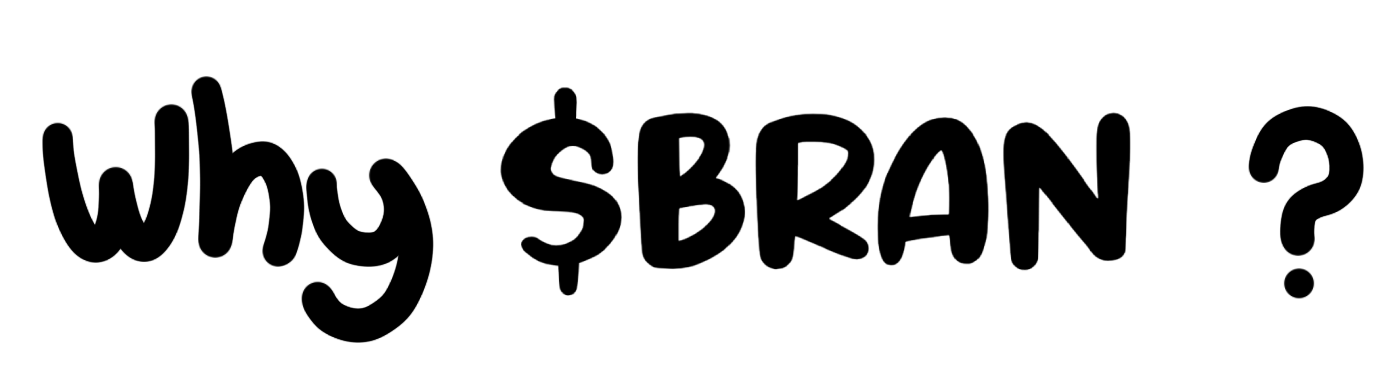
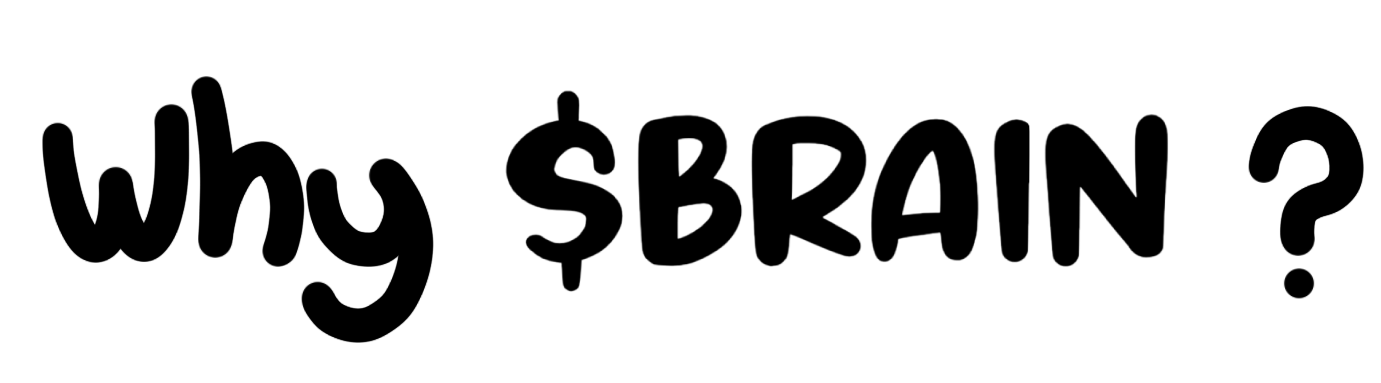
1

diff --git a/index.html b/index.html
@@ -9,8 +9,8 @@
 <meta http-equiv="Expires" content="0" />
     <link rel="icon" href="./assets/logo1.png" type="image/png">
     <link rel="apple-touch-icon" href="./assets/logo1.png">
-    <title>BRAN</title>
-    <meta name="description" content="BRAN is a cheeky, sarcastic genius representing your inner thoughts on the Solana network." />
+    <title>BRAIN</title>
+    <meta name="description" content="BRAIN is a cheeky, sarcastic genius representing your inner thoughts on the Solana network." />
   
     <link rel="preconnect" href="https://fonts.googleapis.com">
     <link rel="preconnect" href="https://fonts.gstatic.com" crossorigin>
@@ -25,48 +25,48 @@
       <div class="ticker-wrapper">
         <div class="ticker">
             <div class="ticker-move">
-                <span class="text">WQa2...<span style="color:#ff7bd3; font-weight: bold; text-transform: uppercase;">Zump</span></span>
-                <span class="text">WQa2...<span style="color:#ff7bd3; font-weight: bold; text-transform: uppercase;">Zump</span></span>
-                <span class="text">WQa2...<span style="color:#ff7bd3; font-weight: bold; text-transform: uppercase;">Zump</span></span>
-                <span class="text">WQa2...<span style="color:#ff7bd3; font-weight: bold; text-transform: uppercase;">Zump</span></span>
-                <span class="text">WQa2...<span style="color:#ff7bd3; font-weight: bold; text-transform: uppercase;">Zump</span></span>
-                <span class="text">WQa2...<span style="color:#ff7bd3; font-weight: bold; text-transform: uppercase;">Zump</span></span>
-                <span class="text">WQa2...<span style="color:#ff7bd3; font-weight: bold; text-transform: uppercase;">Zump</span></span>
-                <span class="text">WQa2...<span style="color:#ff7bd3; font-weight: bold; text-transform: uppercase;">Zump</span></span>
-                <span class="text">WQa2...<span style="color:#ff7bd3; font-weight: bold; text-transform: uppercase;">Zump</span></span>
-                <span class="text">WQa2...<span style="color:#ff7bd3; font-weight: bold; text-transform: uppercase;">Zump</span></span>
-                <span class="text">WQa2...<span style="color:#ff7bd3; font-weight: bold; text-transform: uppercase;">Zump</span></span>
-                <span class="text">WQa2...<span style="color:#ff7bd3; font-weight: bold; text-transform: uppercase;">Zump</span></span>
-                <span class="text">WQa2...<span style="color:#ff7bd3; font-weight: bold; text-transform: uppercase;">Zump</span></span>
-                <span class="text">WQa2...<span style="color:#ff7bd3; font-weight: bold; text-transform: uppercase;">Zump</span></span>
-                <span class="text">WQa2...<span style="color:#ff7bd3; font-weight: bold; text-transform: uppercase;">Zump</span></span>
-                <span class="text">WQa2...<span style="color:#ff7bd3; font-weight: bold; text-transform: uppercase;">Zump</span></span>
-                <span class="text">WQa2...<span style="color:#ff7bd3; font-weight: bold; text-transform: uppercase;">Zump</span></span>
-                <span class="text">WQa2...<span style="color:#ff7bd3; font-weight: bold; text-transform: uppercase;">Zump</span></span>
-                <span class="text">WQa2...<span style="color:#ff7bd3; font-weight: bold; text-transform: uppercase;">Zump</span></span>
-                <span class="text">WQa2...<span style="color:#ff7bd3; font-weight: bold; text-transform: uppercase;">Zump</span></span>
+                <span class="text">HZ16...<span style="color:#ff7bd3; font-weight: bold; text-transform: uppercase;">vump</span></span>
+                <span class="text">HZ16...<span style="color:#ff7bd3; font-weight: bold; text-transform: uppercase;">vump</span></span>
+                <span class="text">HZ16...<span style="color:#ff7bd3; font-weight: bold; text-transform: uppercase;">vump</span></span>
+                <span class="text">HZ16...<span style="color:#ff7bd3; font-weight: bold; text-transform: uppercase;">vump</span></span>
+                <span class="text">HZ16...<span style="color:#ff7bd3; font-weight: bold; text-transform: uppercase;">vump</span></span>
+                <span class="text">HZ16...<span style="color:#ff7bd3; font-weight: bold; text-transform: uppercase;">vump</span></span>
+                <span class="text">HZ16...<span style="color:#ff7bd3; font-weight: bold; text-transform: uppercase;">vump</span></span>
+                <span class="text">HZ16...<span style="color:#ff7bd3; font-weight: bold; text-transform: uppercase;">vump</span></span>
+                <span class="text">HZ16...<span style="color:#ff7bd3; font-weight: bold; text-transform: uppercase;">vump</span></span>
+                <span class="text">HZ16...<span style="color:#ff7bd3; font-weight: bold; text-transform: uppercase;">vump</span></span>
+                <span class="text">HZ16...<span style="color:#ff7bd3; font-weight: bold; text-transform: uppercase;">vump</span></span>
+                <span class="text">HZ16...<span style="color:#ff7bd3; font-weight: bold; text-transform: uppercase;">vump</span></span>
+                <span class="text">HZ16...<span style="color:#ff7bd3; font-weight: bold; text-transform: uppercase;">vump</span></span>
+                <span class="text">HZ16...<span style="color:#ff7bd3; font-weight: bold; text-transform: uppercase;">vump</span></span>
+                <span class="text">HZ16...<span style="color:#ff7bd3; font-weight: bold; text-transform: uppercase;">vump</span></span>
+                <span class="text">HZ16...<span style="color:#ff7bd3; font-weight: bold; text-transform: uppercase;">vump</span></span>
+                <span class="text">HZ16...<span style="color:#ff7bd3; font-weight: bold; text-transform: uppercase;">vump</span></span>
+                <span class="text">HZ16...<span style="color:#ff7bd3; font-weight: bold; text-transform: uppercase;">vump</span></span>
+                <span class="text">HZ16...<span style="color:#ff7bd3; font-weight: bold; text-transform: uppercase;">vump</span></span>
+                <span class="text">HZ16...<span style="color:#ff7bd3; font-weight: bold; text-transform: uppercase;">vump</span></span>
             </div>
             <DIV class="ticker-move">
-                <span class="text">WQa2...<span style="color:#ff7bd3; font-weight: bold; text-transform: uppercase;">Zump</span></span>
-                <span class="text">WQa2...<span style="color:#ff7bd3; font-weight: bold; text-transform: uppercase;">Zump</span></span>
-                <span class="text">WQa2...<span style="color:#ff7bd3; font-weight: bold; text-transform: uppercase;">Zump</span></span>
-                <span class="text">WQa2...<span style="color:#ff7bd3; font-weight: bold; text-transform: uppercase;">Zump</span></span>
-                <span class="text">WQa2...<span style="color:#ff7bd3; font-weight: bold; text-transform: uppercase;">Zump</span></span>
-                <span class="text">WQa2...<span style="color:#ff7bd3; font-weight: bold; text-transform: uppercase;">Zump</span></span>
-                <span class="text">WQa2...<span style="color:#ff7bd3; font-weight: bold; text-transform: uppercase;">Zump</span></span>
-                <span class="text">WQa2...<span style="color:#ff7bd3; font-weight: bold; text-transform: uppercase;">Zump</span></span>
-                <span class="text">WQa2...<span style="color:#ff7bd3; font-weight: bold; text-transform: uppercase;">Zump</span></span>
-                <span class="text">WQa2...<span style="color:#ff7bd3; font-weight: bold; text-transform: uppercase;">Zump</span></span>
-                <span class="text">WQa2...<span style="color:#ff7bd3; font-weight: bold; text-transform: uppercase;">Zump</span></span>
-                <span class="text">WQa2...<span style="color:#ff7bd3; font-weight: bold; text-transform: uppercase;">Zump</span></span>
-                <span class="text">WQa2...<span style="color:#ff7bd3; font-weight: bold; text-transform: uppercase;">Zump</span></span>
-                <span class="text">WQa2...<span style="color:#ff7bd3; font-weight: bold; text-transform: uppercase;">Zump</span></span>
-                <span class="text">WQa2...<span style="color:#ff7bd3; font-weight: bold; text-transform: uppercase;">Zump</span></span>
-                <span class="text">WQa2...<span style="color:#ff7bd3; font-weight: bold; text-transform: uppercase;">Zump</span></span>
-                <span class="text">WQa2...<span style="color:#ff7bd3; font-weight: bold; text-transform: uppercase;">Zump</span></span>
-                <span class="text">WQa2...<span style="color:#ff7bd3; font-weight: bold; text-transform: uppercase;">Zump</span></span>
-                <span class="text">WQa2...<span style="color:#ff7bd3; font-weight: bold; text-transform: uppercase;">Zump</span></span>
-                <span class="text">WQa2...<span style="color:#ff7bd3; font-weight: bold; text-transform: uppercase;">Zump</span></span>
+                <span class="text">HZ16...<span style="color:#ff7bd3; font-weight: bold; text-transform: uppercase;">vump</span></span>
+                <span class="text">HZ16...<span style="color:#ff7bd3; font-weight: bold; text-transform: uppercase;">vump</span></span>
+                <span class="text">HZ16...<span style="color:#ff7bd3; font-weight: bold; text-transform: uppercase;">vump</span></span>
+                <span class="text">HZ16...<span style="color:#ff7bd3; font-weight: bold; text-transform: uppercase;">vump</span></span>
+                <span class="text">HZ16...<span style="color:#ff7bd3; font-weight: bold; text-transform: uppercase;">vump</span></span>
+                <span class="text">HZ16...<span style="color:#ff7bd3; font-weight: bold; text-transform: uppercase;">vump</span></span>
+                <span class="text">HZ16...<span style="color:#ff7bd3; font-weight: bold; text-transform: uppercase;">vump</span></span>
+                <span class="text">HZ16...<span style="color:#ff7bd3; font-weight: bold; text-transform: uppercase;">vump</span></span>
+                <span class="text">HZ16...<span style="color:#ff7bd3; font-weight: bold; text-transform: uppercase;">vump</span></span>
+                <span class="text">HZ16...<span style="color:#ff7bd3; font-weight: bold; text-transform: uppercase;">vump</span></span>
+                <span class="text">HZ16...<span style="color:#ff7bd3; font-weight: bold; text-transform: uppercase;">vump</span></span>
+                <span class="text">HZ16...<span style="color:#ff7bd3; font-weight: bold; text-transform: uppercase;">vump</span></span>
+                <span class="text">HZ16...<span style="color:#ff7bd3; font-weight: bold; text-transform: uppercase;">vump</span></span>
+                <span class="text">HZ16...<span style="color:#ff7bd3; font-weight: bold; text-transform: uppercase;">vump</span></span>
+                <span class="text">HZ16...<span style="color:#ff7bd3; font-weight: bold; text-transform: uppercase;">vump</span></span>
+                <span class="text">HZ16...<span style="color:#ff7bd3; font-weight: bold; text-transform: uppercase;">vump</span></span>
+                <span class="text">HZ16...<span style="color:#ff7bd3; font-weight: bold; text-transform: uppercase;">vump</span></span>
+                <span class="text">HZ16...<span style="color:#ff7bd3; font-weight: bold; text-transform: uppercase;">vump</span></span>
+                <span class="text">HZ16...<span style="color:#ff7bd3; font-weight: bold; text-transform: uppercase;">vump</span></span>
+                <span class="text">HZ16...<span style="color:#ff7bd3; font-weight: bold; text-transform: uppercase;">vump</span></span>
             </div>
         </div>
       </div>
@@ -91,22 +91,22 @@
       <div class="social-links-and-ca-wrapper">
         <div class="social-links-wrapper">
 
-          <a class="social-link"  href="https://x.com/bransolart" target="_blank">
+          <a class="social-link"  href="https://x.com/brainsolanalol" target="_blank">
             <img class="social-img" src="./assets/social/x.svg"/>
           </a>
 
-          <a class="social-link"  href="https://t.me/bransolart" target="_blank">
+          <a class="social-link"  href="https://t.me/brainsolanalol" target="_blank">
             <img class="social-img" src="./assets/social/telegram.svg"/>
           </a>
           <a class="social-link"  href="#" target="_blank">
             <img class="social-img" src="./assets/DEXTools Isotype_black (alternative color).png"/>
           </a>
-            <a class="social-link"  href="https://pump.fun/WQa249FC9DFj799gmainYNVhVntc2uvpq8AYy9QZump" target="_blank">
+            <a class="social-link"  href="https://pump.fun/HZ16j9WcYXDb6Gkxo6Ubfgxfx4swhuXcs4vD9civump" target="_blank">
             <img style="filter: brightness(0%);" class="social-img" src="./assets/pump.png"/>
           </a>
         </div>
         <div class="ca">
-          WQa249FC9DFj799gmainYNVhVntc2uvpq8AYy9QZump
+          HZ16j9WcYXDb6Gkxo6Ubfgxfx4swhuXcs4vD9civump
         </div>
       </div>
 
@@ -117,8 +117,8 @@
           <img class="brain-text-logo shaker" alt="brain-text-logo" src="./assets/brain_header.png" />
         </div>
 
-        <span class="brain-text fade-in-element">BRAN is a cheeky, sarcastic genius representing your inner thoughts on the Solana network.</span>
-        <a href="https://pump.fun/WQa249FC9DFj799gmainYNVhVntc2uvpq8AYy9QZump" target="_blank" class="buy-brain-button"><img src="./assets/buy_brain_button.png" /></a>
+        <span class="brain-text fade-in-element">BRAIN is a cheeky, sarcastic genius representing your inner thoughts on the Solana network.</span>
+        <a href="https://pump.fun/HZ16j9WcYXDb6Gkxo6Ubfgxfx4swhuXcs4vD9civump" target="_blank" class="buy-brain-button"><img src="./assets/buy_brain_button.png" /></a>
       </div>
     </section>
     <section class="why-brain-wrapper">
@@ -126,10 +126,10 @@
         <div class="text-warpper">
           <img class="section-title why-brain-title fade-in-element" src="./assets/why_brain.png" />
           <br>
-            Dis smol BRAN sez: "BUY NOW!"</br>
-            Dis big BRAN sez: "MOON SOON!</br>
+            Dis smol BRAIN sez: "BUY NOW!"</br>
+            Dis big BRAIN sez: "MOON SOON!</br>
           </br>
-            Why $BRAN Coin?</br>
+            Why $BRAIN Coin?</br>
           </br>
             MOON! We go zoom zoom 🚀</br>
             DIAMOND HANDS! No paper hands, no weak sauce 💎✋</br>
@@ -150,48 +150,48 @@
       <div class="ticker-wrapper dark">
         <div class="ticker">
             <div class="ticker-move">
-                <span class="text">$BRAN</span>
-                <span class="text">$BRAN</span>
-                <span class="text">$BRAN</span>
-                <span class="text">$BRAN</span>
-                <span class="text">$BRAN</span>
-                <span class="text">$BRAN</span>
-                <span class="text">$BRAN</span>
-                <span class="text">$BRAN</span>
-                <span class="text">$BRAN</span>
-                <span class="text">$BRAN</span>
-                <span class="text">$BRAN</span>
-                <span class="text">$BRAN</span>
-                <span class="text">$BRAN</span>
-                <span class="text">$BRAN</span>
-                <span class="text">$BRAN</span>
-                <span class="text">$BRAN</span>
-                <span class="text">$BRAN</span>
-                <span class="text">$BRAN</span>
-                <span class="text">$BRAN</span>
-                <span class="text">$BRAN</span>
+                <span class="text">$BRAIN</span>
+                <span class="text">$BRAIN</span>
+                <span class="text">$BRAIN</span>
+                <span class="text">$BRAIN</span>
+                <span class="text">$BRAIN</span>
+                <span class="text">$BRAIN</span>
+                <span class="text">$BRAIN</span>
+                <span class="text">$BRAIN</span>
+                <span class="text">$BRAIN</span>
+                <span class="text">$BRAIN</span>
+                <span class="text">$BRAIN</span>
+                <span class="text">$BRAIN</span>
+                <span class="text">$BRAIN</span>
+                <span class="text">$BRAIN</span>
+                <span class="text">$BRAIN</span>
+                <span class="text">$BRAIN</span>
+                <span class="text">$BRAIN</span>
+                <span class="text">$BRAIN</span>
+                <span class="text">$BRAIN</span>
+                <span class="text">$BRAIN</span>
             </div>
             <div class="ticker-move">
-                <span class="text">$BRAN</span>
-                <span class="text">$BRAN</span>
-                <span class="text">$BRAN</span>
-                <span class="text">$BRAN</span>
-                <span class="text">$BRAN</span>
-                <span class="text">$BRAN</span>
-                <span class="text">$BRAN</span>
-                <span class="text">$BRAN</span>
-                <span class="text">$BRAN</span>
-                <span class="text">$BRAN</span>
-                <span class="text">$BRAN</span>
-                <span class="text">$BRAN</span>
-                <span class="text">$BRAN</span>
-                <span class="text">$BRAN</span>
-                <span class="text">$BRAN</span>
-                <span class="text">$BRAN</span>
-                <span class="text">$BRAN</span>
-                <span class="text">$BRAN</span>
-                <span class="text">$BRAN</span>
-                <span class="text">$BRAN</span>
+                <span class="text">$BRAIN</span>
+                <span class="text">$BRAIN</span>
+                <span class="text">$BRAIN</span>
+                <span class="text">$BRAIN</span>
+                <span class="text">$BRAIN</span>
+                <span class="text">$BRAIN</span>
+                <span class="text">$BRAIN</span>
+                <span class="text">$BRAIN</span>
+                <span class="text">$BRAIN</span>
+                <span class="text">$BRAIN</span>
+                <span class="text">$BRAIN</span>
+                <span class="text">$BRAIN</span>
+                <span class="text">$BRAIN</span>
+                <span class="text">$BRAIN</span>
+                <span class="text">$BRAIN</span>
+                <span class="text">$BRAIN</span>
+                <span class="text">$BRAIN</span>
+                <span class="text">$BRAIN</span>
+                <span class="text">$BRAIN</span>
+                <span class="text">$BRAIN</span>
             </div>
         </div>
       </div>
@@ -232,13 +232,13 @@
 
         <div class="step">
           <div class="step-title-and-text">
-            <h3>3. SWAP $SOL FOR $BRAN</h3>
-            <p>Click on the button below, connect your wallet, and press SWAP! BOOM! <strong>You are a $BRAN holder!</strong></p>
+            <h3>3. SWAP $SOL FOR $BRAIN</h3>
+            <p>Click on the button below, connect your wallet, and press SWAP! BOOM! <strong>You are a $BRAIN holder!</strong></p>
             <p></p>
-              <a href="https://pump.fun/WQa249FC9DFj799gmainYNVhVntc2uvpq8AYy9QZump" target="_blank" class="buy-brain-instep">Buy $BRAN</a>
+              <a href="https://pump.fun/HZ16j9WcYXDb6Gkxo6Ubfgxfx4swhuXcs4vD9civump" target="_blank" class="buy-brain-instep">Buy $BRAIN</a>
           </div>
 
-          <img src="./assets/c.png" alt="Swap $SOL for $BRAN">
+          <img src="./assets/c.png" alt="Swap $SOL for $BRAIN">
         </div>
     </div>
     </section>
@@ -248,11 +248,11 @@
 
       <div class="social-links-wrapper-bottom">
 
-        <a class="social-link" href="https://x.com/bransolart" target="_blank">
+        <a class="social-link" href="https://x.com/brainsolanalol" target="_blank">
           <img class="social-img" src="./assets/social/x-w.svg"/>
         </a>
 
-        <a class="social-link" href="https://t.me/bransolart" target="_blank">
+        <a class="social-link" href="https://t.me/brainsolanalol" target="_blank">
           <img class="social-img" src="./assets/social/telegram-w.svg"/>
         </a>
       </div>
@@ -268,7 +268,7 @@
     </section>
     <div class="footer">
       <span class="disclaimer">
-        Legal Disclaimer: $BRAN is a meme coin with no value or financial return. $BRAN is purely for entertainment. By purchasing $BRAN, you acknowledge this disclaimer.
+        Legal Disclaimer: $BRAIN is a meme coin with no value or financial return. $BRAIN is purely for entertainment. By purchasing $BRAIN, you acknowledge this disclaimer.
       </span>
     </div>
     <script type="text/javascript" src="./script.js?v=1.0.1"></script>
